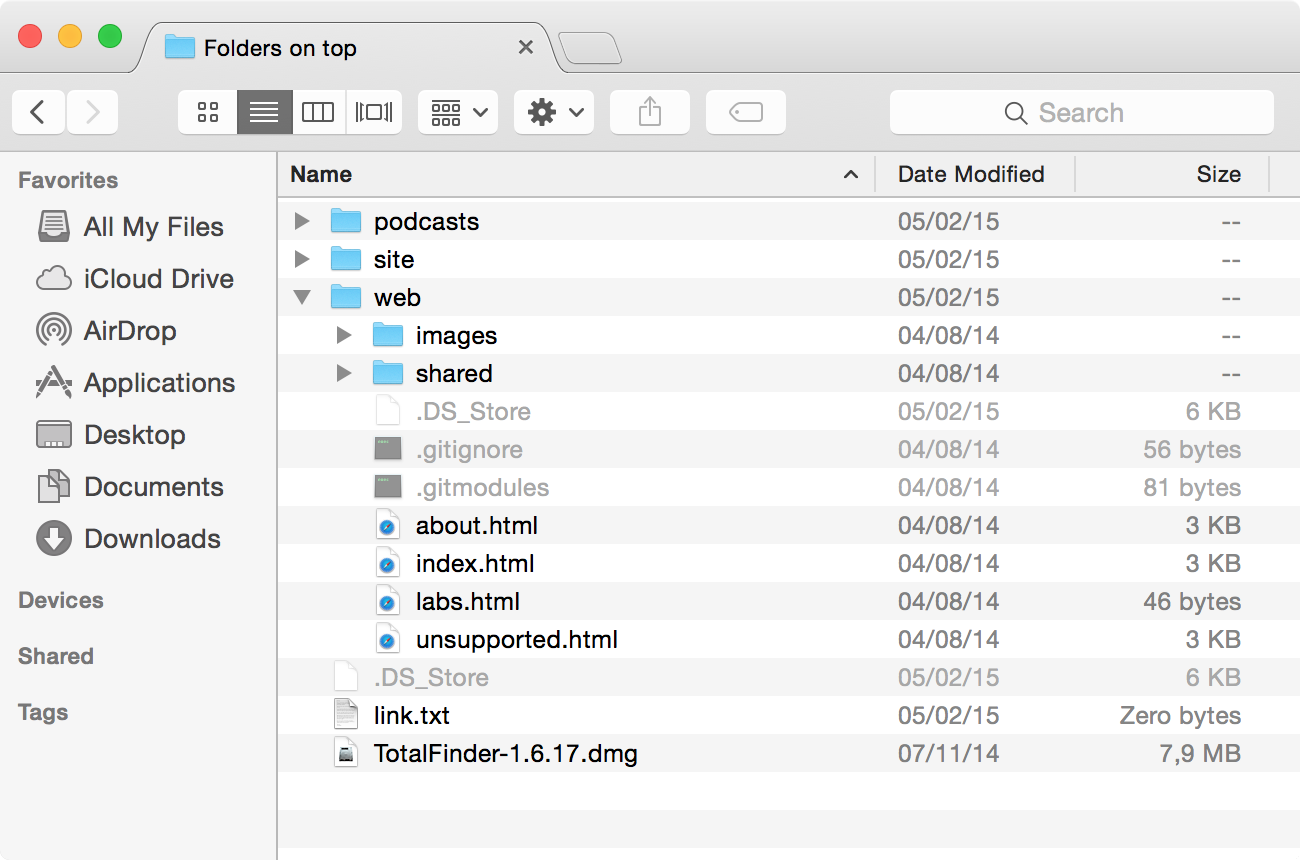
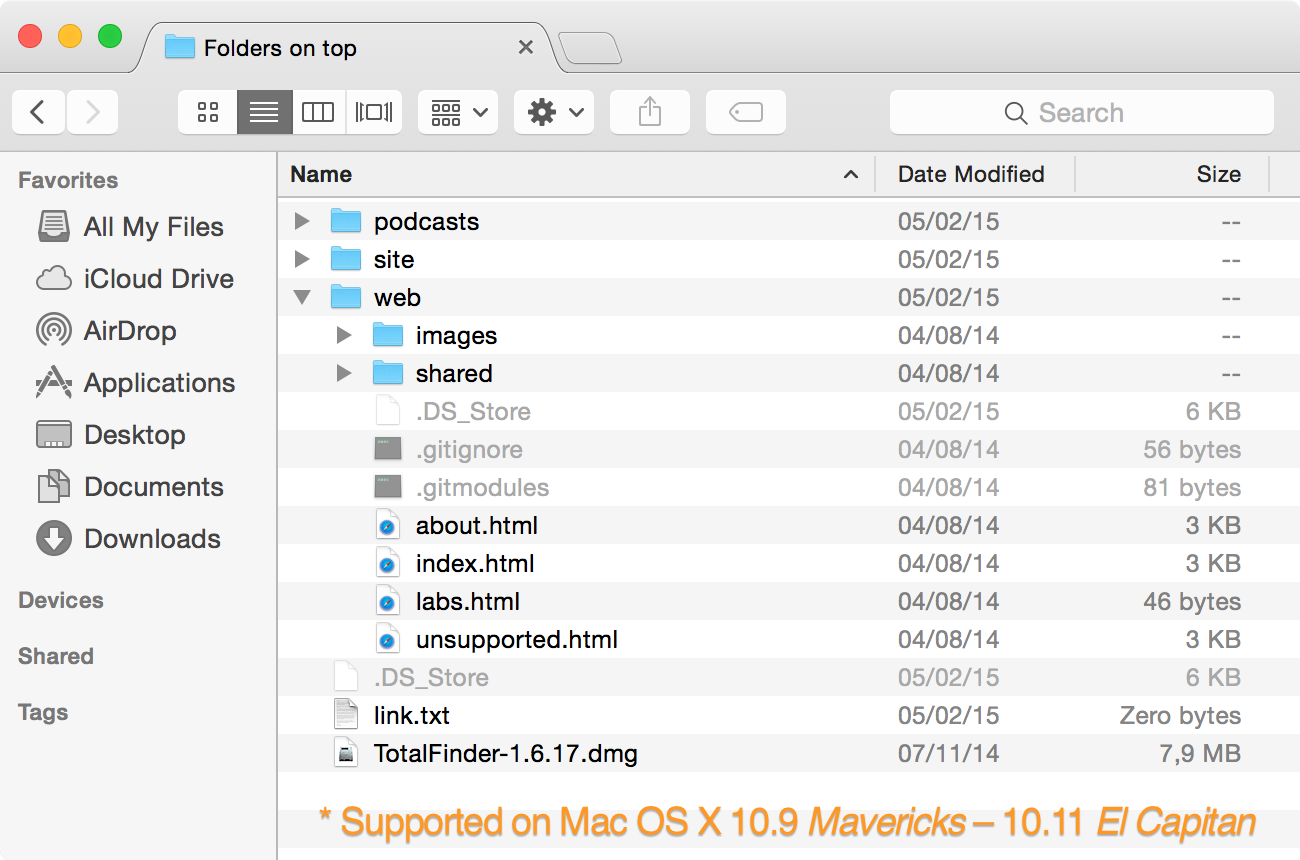
Update for 1.8.1 release. Updated some Sierra references.

Changed region(s): [[0.2462, 0.9372, 0.9846, 0.9977]]

diff --git a/system-osax.md b/system-osax.md
@@ -4,7 +4,7 @@ title: System OSAX
 subtitle: TotalFinder with System Integrity Protection fully enabled
 ---
 
-Under OS X 10.11 (El Capitan), TotalFinder cannot install itself on a normally configured machine due to [System Integrity Protection](https://en.wikipedia.org/wiki/System_Integrity_Protection).
+Under OS X 10.11 (El Capitan) and macOS 10.12 (Sierra), TotalFinder cannot install itself on a normally configured machine due to [System Integrity Protection](https://en.wikipedia.org/wiki/System_Integrity_Protection).
 
 [This article describes how to partially disable System Integrity Protection](/system-integrity-protection) to install and run TotalFinder under El Capitan and higher.
 
@@ -29,8 +29,8 @@ Scripting additions have 'osax' file extension. Historically there are three pla
 3. `/System/Library/ScriptingAdditions`
 
 The original idea was to keep user-specific additions in the first location, system-wide admin-installed additions in the second one and Apple's own system additions in the third location.
-There are various restrictions what is considered a valid OSAX and those restrictions evolved over time between OS versions.
-El Capitan is the most strict and it does not allow scripting additions placed in `/Library/ScriptingAdditions` to inject into system processes (processes with Apple's code signature).
+There are various restrictions on what is considered a _valid_ OSAX and those restrictions evolved over successive OS versions.
+After El Capitan, scripting additions placed in `/Library/ScriptingAdditions` are no longer allowed to inject into system processes (processes with Apple's code signature) due to System Integrity Protection.
 
 However it is possible to put an addition into `/System/Library/ScriptingAdditions` and it can then freely inject into system processes.
 This technique was [discovered and described by SIMBL developers](https://github.com/norio-nomura/EasySIMBL/issues/26#issuecomment-117028426).

diff --git a/system-integrity-protection.md b/system-integrity-protection.md
@@ -38,7 +38,7 @@ TotalFinder works by changing Finder.app. OS X does not provide any other way to
 
 In order to add or change some features of Finder, we use a technique called _code injection_. This means we add some additional code to the Finder program whilst it is running to do what we need. This is relatively safe - in fact we do not change any part of OS X on the disk. You only have to force quit Finder via `COMMAND+OPTION+ESC` to relaunch Finder.app cleanly and everything will be as if TotalFinder was never running.
 
-However, in El Capitan new security measures disallow this kind of modification _even if you have administrator access_. In order for TotalFinder to launch, part of System Integrity Protection must be disabled.
+However, after El Capitan, new security measures disallow this kind of modification _even if you have administrator access_. In order for TotalFinder to launch, part of System Integrity Protection must be disabled.
 
 You can find some further information [in our blog](http://blog.binaryage.com/el-capitan-update).
 

diff --git a/about.md b/about.md
@@ -4,7 +4,7 @@ title: About TotalFinder
 subtitle: About TotalFinder
 ---
 
-<h2><mark><a href="/system-integrity-protection">See here</a> for information about running TotalFinder on OSX 10.11 El Capitan</mark></h2>
+<h2><mark><a href="/system-integrity-protection">See here</a> for information about running TotalFinder on OS X 10.11 El Capitan and macOS 10.12 Sierra</mark></h2>
 
 ## TotalFinder is just a better Finder
 TotalFinder works like the original Finder but adds [tabs](/tabs), [dual panel mode](/dual-mode), [folders on top](/folders-on-top) and other [useful features](/tweaks).
@@ -13,7 +13,7 @@ TotalFinder works like the original Finder but adds [tabs](/tabs), [dual panel m
 
 My goal is to improve Finder in areas where it is lacking but keep the overall design, which is good.
 
-TotalFinder is tested to work in OS X **10.8 (Mountain Lion)**, **10.9 (Mavericks)** and **10.10 (Yosemite)**.
+TotalFinder is tested to work in OS X **10.9 (Mavericks)** and later.
 
 ## TotalFinder is a plugin, not a replacement
 

diff --git a/index.md b/index.md
@@ -1,7 +1,7 @@
 ---
 layout: product-home
-download: http://downloads.binaryage.com/TotalFinder-1.8.0.dmg
-downloadtitle: Download v1.8
+download: http://downloads.binaryage.com/TotalFinder-1.8.1.dmg
+downloadtitle: Download v1.8.1
 title: TotalFinder is a better Finder
 subtitle: for Mac users who demand more from their Finder
 product: totalfinder
@@ -59,7 +59,7 @@ highlights: [{
   style: "background: transparent url('/images/showcase/full-clabels.png') no-repeat -274px -100px / 650px 430px",
   screenshot: 1
 },{
-  title: "Folders on top",
+  title: "Folders on top*",
   description: "Folders should always go first in list view. You can also easily toggle display of hidden files.",
   style: "background: transparent url('/images/showcase/full-fot.png') no-repeat -162px -162px / 650px 430px",
   screenshot: 2
